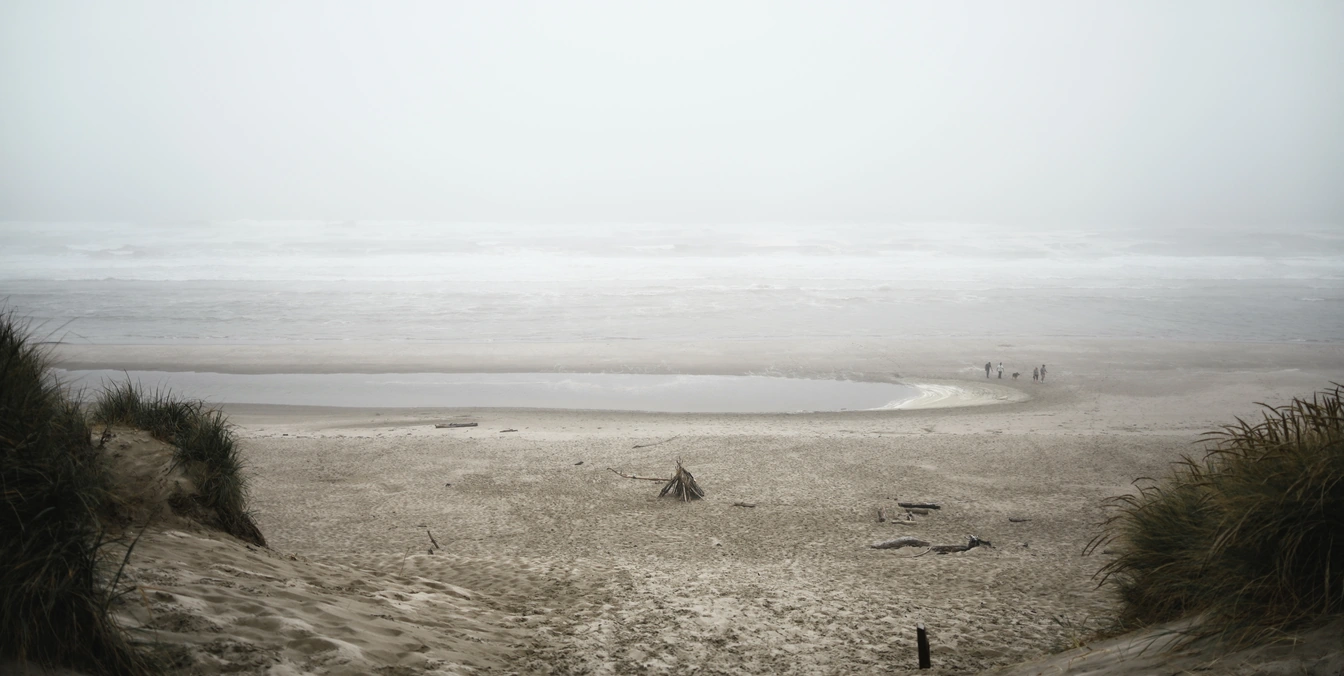
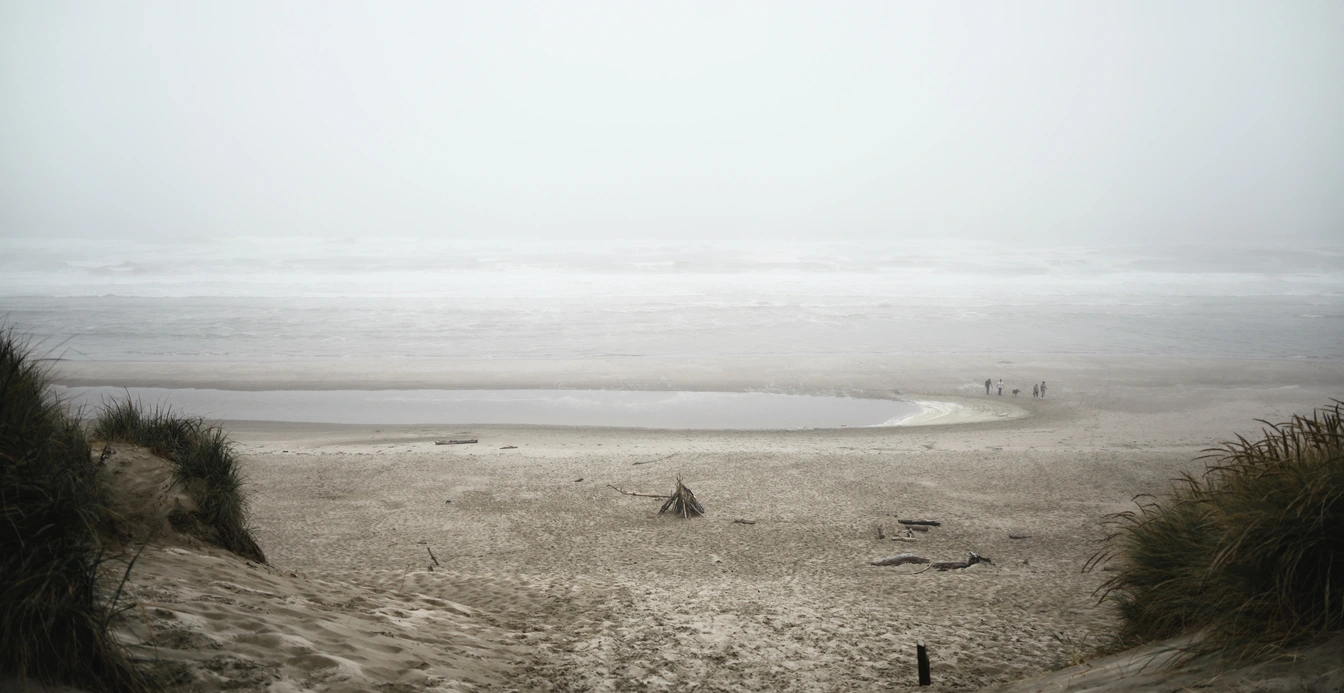
Refresh homepage photo from updated image 1

diff --git a/index.html b/index.html
@@ -26,7 +26,7 @@
           <p>Outside of research, I enjoy classical music, jazz, and photography, and I love matcha, boba milk tea, and coffee 😋</p>
         </div>
         <div class="profile-gallery">
-          <img src="images/1.webp?v=d6c7035c0d3c" alt="People walking on a foggy beach framed by sand dunes and grass" width="1344" height="676" decoding="async">
+          <img src="images/1.webp?v=fbd8492f9d28" alt="People walking on a foggy beach framed by sand dunes and grass" width="1344" height="693" decoding="async">
         </div>
       </div>
     </article>
